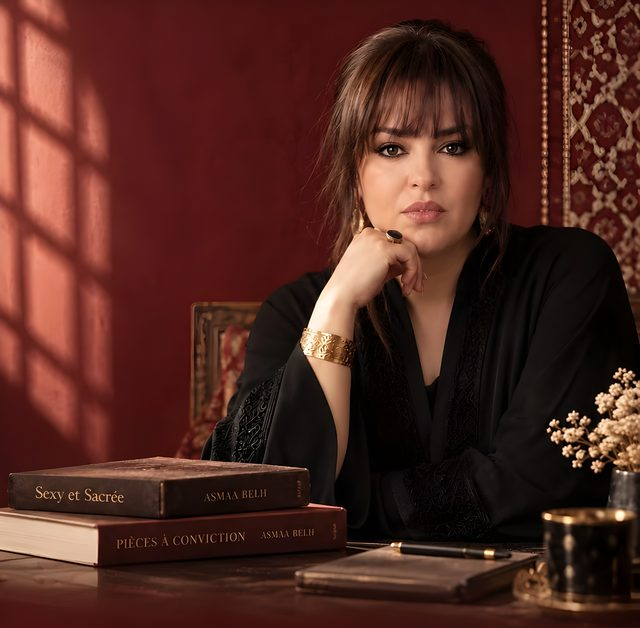
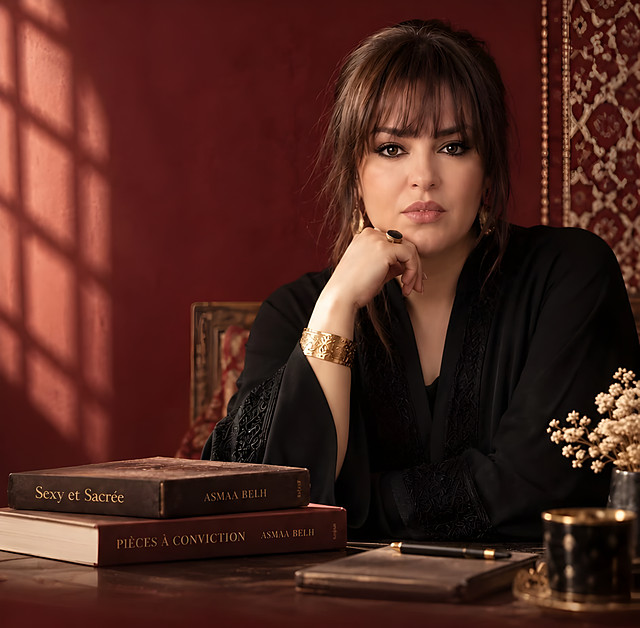
Photo d'en-tête : meilleure qualité
Rendu plus naturel (mélange de l'agrandissement et de l'original, netteté
légère), compression plus fine, tailles jusqu'à 3200 px et attribut sizes
corrigé : la photo couvre toute la hauteur, le navigateur chargeait une
version trop petite, surtout sur téléphone.

diff --git a/index.html b/index.html
@@ -28,7 +28,7 @@
   <script type="application/ld+json">{"@context": "https://schema.org", "@type": "Person", "@id": "https://akhimysah.github.io/asmaa-belh-site/#asmaa", "name": "Asmaa Belh", "jobTitle": "Thérapeute, autrice et entrepreneure", "url": "https://akhimysah.github.io/asmaa-belh-site/", "image": "https://akhimysah.github.io/asmaa-belh-site/assets/img/og-image.jpg", "description": "Thérapeute formée à l'analyse transactionnelle, autrice de Sexy et Sacrée et de Love Programme, créatrice de l'univers ORR. Programmes, retraites et immersions.", "knowsAbout": ["Analyse transactionnelle", "Hypnose", "Psychothérapie", "Couple et relations", "Féminin sacré"], "knowsLanguage": "fr"}</script>
   <link rel="preload" href="assets/fonts/cormorant-garamond-normal-latin.woff2" as="font" type="font/woff2" crossorigin>
   <link rel="preload" href="assets/fonts/jost-normal-latin.woff2" as="font" type="font/woff2" crossorigin>
-  <link rel="preload" as="image" type="image/webp" imagesrcset="assets/img/hero-bureau-640.webp 640w, assets/img/hero-bureau-960.webp 960w, assets/img/hero-bureau.webp 1800w" imagesizes="(max-width: 860px) 100vw, 54vw" fetchpriority="high">
+  <link rel="preload" as="image" type="image/webp" imagesrcset="assets/img/hero-bureau-640.webp?v=2 640w, assets/img/hero-bureau-960.webp?v=2 960w, assets/img/hero-bureau-1400.webp?v=2 1400w, assets/img/hero-bureau.webp?v=2 1800w, assets/img/hero-bureau-2400.webp?v=2 2400w, assets/img/hero-bureau-3200.webp?v=2 3200w" imagesizes="(max-width: 860px) 125vh, 110vh" fetchpriority="high">
   <link rel="stylesheet" href="assets/css/fonts.css?v=1790939170">
   <link rel="stylesheet" href="assets/css/style.css?v=1791376625">
   <noscript><style>.reveal, .hero-content > * { opacity: 1 !important; transform: none !important; } .divider { transform: none !important; }</style></noscript>
@@ -40,7 +40,7 @@
 <!-- ===== HERO ===== -->
 <section class="hero">
   <div class="hero-media">
-    <div class="photo photo-bureau" data-missing="Photo du hero — assets/img/hero-bureau.jpg"><picture><source srcset="assets/img/hero-bureau-640.webp 640w, assets/img/hero-bureau-960.webp 960w, assets/img/hero-bureau.webp 1800w" sizes="(max-width: 860px) 100vw, 54vw" type="image/webp"><img src="assets/img/hero-bureau.jpg" srcset="assets/img/hero-bureau-640.jpg 640w, assets/img/hero-bureau-960.jpg 960w, assets/img/hero-bureau.jpg 1800w" sizes="(max-width: 860px) 100vw, 54vw" width="1800" height="1767" fetchpriority="high" decoding="async" alt="Asmaa Belh à son bureau" onerror="this.closest('.photo').classList.add('missing')"></picture></div>
+    <div class="photo photo-bureau" data-missing="Photo du hero — assets/img/hero-bureau.jpg"><picture><source srcset="assets/img/hero-bureau-640.webp?v=2 640w, assets/img/hero-bureau-960.webp?v=2 960w, assets/img/hero-bureau-1400.webp?v=2 1400w, assets/img/hero-bureau.webp?v=2 1800w, assets/img/hero-bureau-2400.webp?v=2 2400w, assets/img/hero-bureau-3200.webp?v=2 3200w" sizes="(max-width: 860px) 125vh, 110vh" type="image/webp"><img src="assets/img/hero-bureau.jpg?v=2" srcset="assets/img/hero-bureau-640.jpg?v=2 640w, assets/img/hero-bureau-960.jpg?v=2 960w, assets/img/hero-bureau-1400.jpg?v=2 1400w, assets/img/hero-bureau.jpg?v=2 1800w, assets/img/hero-bureau-2400.jpg?v=2 2400w, assets/img/hero-bureau-3200.jpg?v=2 3200w" sizes="(max-width: 860px) 125vh, 110vh" width="1800" height="1767" fetchpriority="high" decoding="async" alt="Asmaa Belh à son bureau" onerror="this.closest('.photo').classList.add('missing')"></picture></div>
   </div>
   <div class="container hero-content">
     <h1>Quand une femme se réaligne, <em>tout son monde change.</em></h1>
